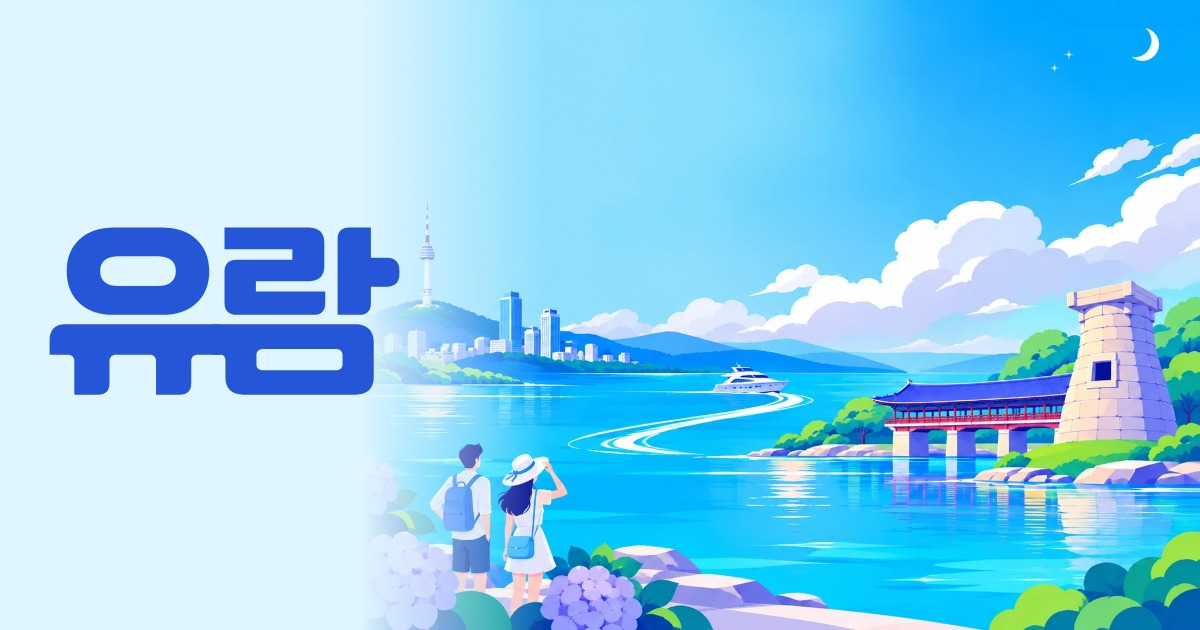
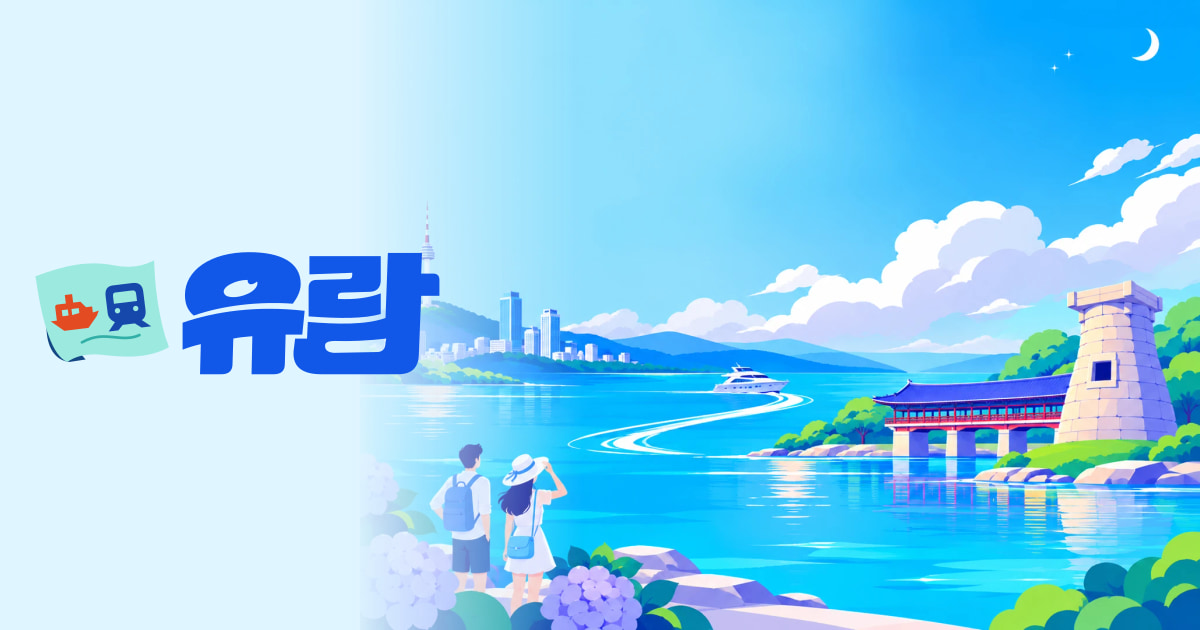
Apply the approved Yuram lettering and illustrated paper map

diff --git a/public/index.html b/public/index.html
@@ -11,10 +11,10 @@
   <meta property="og:site_name" content="유람">
   <meta property="og:title" content="유람">
   <meta property="og:description" content="기차를 타고, 바다를 건너고, 골목에서 만나요. 친구와 함께하는 3D 여행 게임 유람.">
-  <meta property="og:image" content="https://yuram.vercel.app/yuram-share.jpg?v=2">
+  <meta property="og:image" content="https://yuram.vercel.app/yuram-share.jpg?v=4">
   <meta property="og:image:width" content="1200">
   <meta property="og:image:height" content="630">
-  <meta property="og:image:alt" content="푸른 여행 풍경에 새겨진 유람 로고">
+  <meta property="og:image:alt" content="유람 글자 로고와 민트색 종이 지도에 그린 주황색 배와 파란 기차">
   <meta name="twitter:card" content="summary_large_image">
   <meta name="theme-color" content="#F4FAFF">
   <meta name="mobile-web-app-capable" content="yes">
@@ -40,10 +40,10 @@
       }
     } catch {}
   </script>
-  <link rel="manifest" href="./palace.webmanifest">
-  <link rel="apple-touch-icon" href="./yuram-icon-192.png?v=2">
+  <link rel="manifest" href="./palace.webmanifest?v=4">
+  <link rel="apple-touch-icon" href="./yuram-icon-192.png?v=4">
   <title>유람 | Yuram</title>
-  <link rel="icon" type="image/x-icon" sizes="16x16 32x32 48x48" href="./favicon.ico?v=yuram-2">
+  <link rel="icon" type="image/x-icon" sizes="16x16 32x32 48x48" href="./favicon.ico?v=yuram-4">
   <link rel="stylesheet" href="./style.css">
   <link rel="stylesheet" href="./passport.css">
   <link rel="stylesheet" href="./minigames.css">
@@ -71,7 +71,7 @@
         <figure class="entry-cover">
           <img class="entry-art" src="./yuram-journey.webp" alt="바다 너머 전망탑과 돌탑이 보이는 여행 포스터" width="1440" height="1080" fetchpriority="high">
           <figcaption class="entry-cover-title">
-            <img class="entry-cover-wordmark" src="./yuram-wordmark.svg?v=2" alt="유람" width="192" height="100">
+            <img class="entry-cover-wordmark" src="./yuram-wordmark.svg?v=4" alt="유람" width="328" height="164">
           </figcaption>
         </figure>
         <form id="profile-form" class="entry-profile-form">
@@ -97,7 +97,7 @@
       <section id="server-step" class="entry-server" aria-labelledby="server-title" hidden>
         <div class="entry-server-nav">
           <button id="server-back" class="entry-back" type="button"><span aria-hidden="true">←</span> 프로필 수정</button>
-          <img class="entry-wordmark" src="./yuram-wordmark.svg?v=2" alt="유람" width="192" height="100">
+          <img class="entry-wordmark" src="./yuram-wordmark.svg?v=4" alt="유람" width="328" height="164">
         </div>
         <div class="entry-server-head">
           <h1 id="server-title" tabindex="-1">서버 선택</h1>
@@ -136,8 +136,8 @@
   <header class="top">
     <div class="game-identity">
       <h1 class="brand"><picture>
-        <source media="(max-width: 810px), (pointer: coarse)" srcset="./yuram-symbol.svg" width="64" height="64">
-        <img src="./yuram-wordmark.svg?v=2" alt="유람" width="192" height="100" decoding="async">
+        <source media="(max-width: 810px), (pointer: coarse)" srcset="./yuram-symbol.svg?v=4" width="112" height="98">
+        <img src="./yuram-wordmark.svg?v=4" alt="유람" width="328" height="164" decoding="async">
       </picture></h1>
       <span id="header-region">서울</span>
     </div>

diff --git a/index.html b/index.html
@@ -4,7 +4,7 @@
   <meta charset="utf-8">
   <meta name="viewport" content="width=device-width,initial-scale=1">
   <title>유람 | Yuram</title>
-  <link rel="icon" type="image/x-icon" sizes="16x16 32x32 48x48" href="./public/favicon.ico?v=yuram-2">
+  <link rel="icon" type="image/x-icon" sizes="16x16 32x32 48x48" href="./public/favicon.ico?v=yuram-4">
   <meta name="application-name" content="유람">
   <meta name="apple-mobile-web-app-title" content="유람">
   <meta property="og:type" content="website">
@@ -12,10 +12,10 @@
   <meta property="og:site_name" content="유람">
   <meta property="og:title" content="유람">
   <meta property="og:description" content="기차를 타고, 바다를 건너고, 골목에서 만나요. 친구와 함께하는 3D 여행 게임 유람.">
-  <meta property="og:image" content="https://yuram.vercel.app/yuram-share.jpg?v=2">
+  <meta property="og:image" content="https://yuram.vercel.app/yuram-share.jpg?v=4">
   <meta property="og:image:width" content="1200">
   <meta property="og:image:height" content="630">
-  <meta property="og:image:alt" content="푸른 여행 풍경에 새겨진 유람 로고">
+  <meta property="og:image:alt" content="유람 글자 로고와 민트색 종이 지도에 그린 주황색 배와 파란 기차">
   <meta name="twitter:card" content="summary_large_image">
   <script>
     const game=new URL(location.href);

diff --git a/ASSET-CREDITS.md b/ASSET-CREDITS.md
@@ -1,6 +1,6 @@
 # 유람 자료 출처
 
-시작 화면과 공유 카드의 푸른 여행 풍경은 서울·포항·경주를 한 장면에 담아 생성한 게임용 일러스트입니다. 유람 로고는 한글 두 음절의 획을 직접 그린 레터링입니다. 소형 아이콘은 ‘유’의 ㅇ과 ㅠ를 여행 가방의 손잡이와 바퀴로 그렸습니다.
+시작 화면의 여행 풍경은 서울·포항·경주를 한 장면에 담아 생성한 게임용 일러스트입니다. ‘유람’ 글자 로고는 두 음절의 획을 직접 그린 레터링입니다. 작은 로고는 Adobe Firefly로 구도를 잡고, 살짝 말린 민트색 종이 지도 한 장에 주황색 배와 파란 기차를 벡터로 그렸습니다.
 
 ## 국가유산청 3D 자료
 
